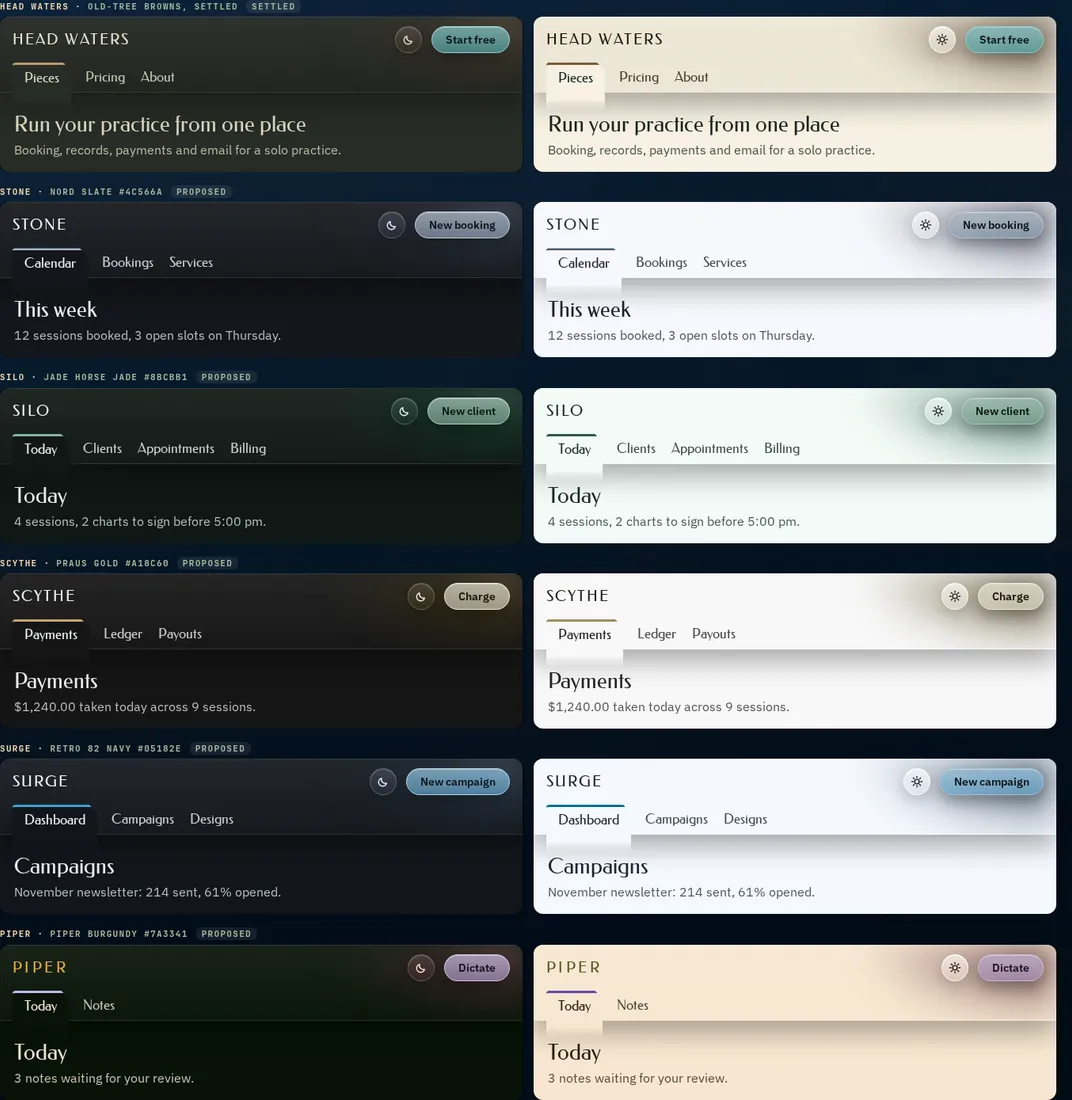
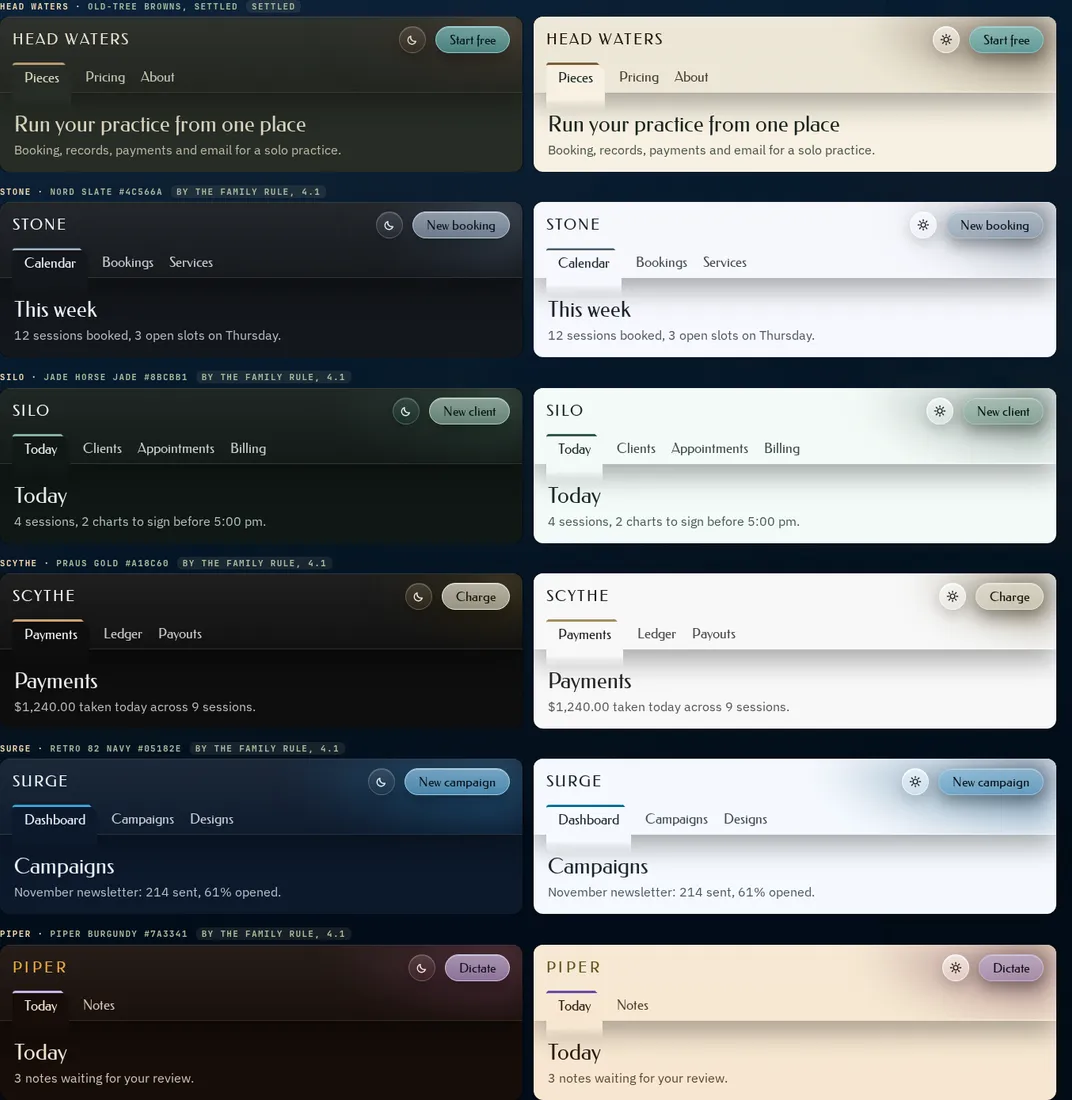
Take a second provider's review of the header on the five derived products into the example, and say what that review found that the checks could not
The design-language worked example now carries version 4.1: the glass header's corner tones for Stone, Silo, Scythe, Surge and Piper as a second provider's review left them. That means a slate glow with a shorter reach for Stone, a grey-jade glow for Silo, an ink-black dark ground and a tighter gold for Scythe, navy-to-azure with a navy dark ground and a wider reach for Surge, and a deeper burgundy glow with dark-earth neutrals for Piper. scripts/tokens.py accepts such a review from the family file and emits a per-product glow reach. reference/review.md gains the paragraph on why that review earned its cost.

Those five products took their header colours from a rule: hue from a named theme colour, lightness and opacity copied from the settled front page's glow. Every value passed every check, and still two pairs of products could be mistaken for each other where colour was all that differed. Surge's corner read as Stone's, and Piper's green-black dark ground sat close to Silo's. Colour-blind distance is measured between accents, not between corners and grounds, and contrast says a palette is legible, not that it belongs to anybody, so no check could see it.
[…]

diff --git a/design-language/examples/head-waters/tokens.css b/design-language/examples/head-waters/tokens.css
@@ -334,7 +334,7 @@
   --hw-header-ink: #2b1a12;
   --hw-header-tint: #43272b;
   --hw-glow-core: #3d101a;
-  --hw-glow-mid: #5d2d35b0;
+  --hw-glow-mid: #653247a0;
   --hw-gel: #907eb5;
   --hw-on-gel: #131019;
   --hw-frost-ink: #2b1a12;
@@ -347,19 +347,19 @@
 }
 
 .dark[data-product="piper"], .dark [data-product="piper"], [data-product="piper"] .dark {
-  --hw-ground: #071307;
-  --hw-surface: #0f1c0f;
-  --hw-raised: #162516;
-  --hw-float: #1b2b1b;
-  --hw-inset: #040c04;
-  --hw-field: #050e05;
-  --hw-surface-top: #122012;
-  --hw-surface-bottom: #0f1c0f;
-  --hw-raised-bottom: #142214;
+  --hw-ground: #160d09;
+  --hw-surface: #1f1611;
+  --hw-raised: #281e19;
+  --hw-float: #2e241f;
+  --hw-inset: #0f0704;
+  --hw-field: #120905;
+  --hw-surface-top: #231915;
+  --hw-surface-bottom: #1f1611;
+  --hw-raised-bottom: #251c17;
   --hw-ink: #f7e9d6;
   --hw-ink-2: #d4c5b1;
   --hw-ink-3: #b7a895;
-  --hw-edge: #2b3a2b;
+  --hw-edge: #3e332e;
   --hw-edge-control: #7f7261;
   --hw-lit: rgba(255, 255, 255, 0.06);
   --hw-danger: #d9818f;
@@ -376,8 +376,8 @@
   --hw-warning-tint: #33270e;
   --hw-warning-edge: #6e5520;
   --hw-neutral: #a39684;
-  --hw-neutral-tint: #1d2a1d;
-  --hw-neutral-edge: #364436;
+  --hw-neutral-tint: #2e241f;
+  --hw-neutral-edge: #483d38;
   --hw-done: #6fbf8c;
   --hw-scrim: rgba(0, 0, 0, 0.6);
   --hw-frost-sheet: linear-gradient(#ffffff22, #ffffff08);
@@ -393,13 +393,13 @@
   --hw-signature: #c8b5f0;
   --hw-header-ink: #f7e9d6;
   --hw-header-tint: #33191d;
-  --hw-glow-core: #7c4951;
-  --hw-glow-mid: #4d1f28a0;
+  --hw-glow-core: #70354b;
+  --hw-glow-mid: #5a2c44b0;
   --hw-gel: #a896cf;
   --hw-on-gel: #131019;
   --hw-frost-ink: #f7e9d6;
-  --hw-surface-fill: linear-gradient(180deg, #122012 0%, #0f1c0f 100%);
-  --hw-raised-fill: linear-gradient(180deg, #162516 0%, #142214 100%);
+  --hw-surface-fill: linear-gradient(180deg, #231915 0%, #1f1611 100%);
+  --hw-raised-fill: linear-gradient(180deg, #281e19 0%, #251c17 100%);
   --hw-accent-top: #cfbef2;
   --hw-accent-hover-top: #dccffa;
   --hw-danger-top: #de909c;
@@ -464,10 +464,12 @@
   --hw-accent-top: #3a3a3a;
   --hw-accent-hover-top: #4b4b4b;
   --hw-danger-top: #bd3d34;
+  --hw-glow-reach-x: 28%;
+  --hw-glow-reach-y: 92%;
 }
 
 .dark[data-product="scythe"], .dark [data-product="scythe"], [data-product="scythe"] .dark {
-  --hw-ground: #151515;
+  --hw-ground: #0e0e0e;
   --hw-surface: #1f1f1f;
   --hw-raised: #282828;
   --hw-float: #313131;
@@ -572,8 +574,8 @@
   --hw-signature: #495a6b;
   --hw-header-ink: #1f242f;
   --hw-header-tint: #2b303b;
-  --hw-glow-core: #192233;
-  --hw-glow-mid: #353e51b0;
+  --hw-glow-core: #283444;
+  --hw-glow-mid: #50607690;
   --hw-gel: #788c9e;
   --hw-on-gel: #0a121a;
   --hw-frost-ink: #1f242f;
@@ -582,6 +584,7 @@
   --hw-accent-top: #5f6e7d;
   --hw-accent-hover-top: #51606e;
   --hw-danger-top: #bd3d34;
+  --hw-glow-reach-x: 32%;
 }
 
 .dark[data-product="stone"], .dark [data-product="stone"], [data-product="stone"] .dark {
@@ -630,8 +633,8 @@
   --hw-signature: #a0b4c7;
   --hw-header-ink: #eef1f6;
   --hw-header-tint: #1d222d;
-  --hw-glow-core: #505b6f;
-  --hw-glow-mid: #273042a0;
+  --hw-glow-core: #59677e;
+  --hw-glow-mid: #36465da8;
   --hw-gel: #8a9eb1;
   --hw-on-gel: #0a121a;
   --hw-frost-ink: #eef1f6;
@@ -690,8 +693,8 @@
   --hw-signature: #305647;
   --hw-header-ink: #182823;
   --hw-header-tint: #19372c;
-  --hw-glow-core: #002a1d;
-  --hw-glow-mid: #094936b0;
+  --hw-glow-core: #253c33;
+  --hw-glow-mid: #4b6259a2;
   --hw-gel: #6c9383;
   --hw-on-gel: #091410;
   --hw-frost-ink: #182823;
@@ -748,8 +751,8 @@
   --hw-signature: #87af9e;
   --hw-header-ink: #ecf2f0;
   --hw-header-tint: #09281e;
-  --hw-glow-core: #2d6752;
-  --hw-glow-mid: #003a29a0;
+  --hw-glow-core: #3f5c50;
+  --hw-glow-mid: #2a473a98;
   --hw-gel: #7ea595;
   --hw-on-gel: #091410;
   --hw-frost-ink: #ecf2f0;
@@ -808,8 +811,8 @@
   --hw-signature: #006590;
   --hw-header-ink: #1c2530;
   --hw-header-tint: #25313f;
-  --hw-glow-core: #0f233a;
-  --hw-glow-mid: #2a3f58b0;
+  --hw-glow-core: #092548;
+  --hw-glow-mid: #205a80ae;
   --hw-gel: #4b92ba;
   --hw-on-gel: #091319;
   --hw-frost-ink: #1c2530;
@@ -818,10 +821,12 @@
   --hw-accent-top: #1f779d;
   --hw-accent-hover-top: #1f6987;
   --hw-danger-top: #bd3d34;
+  --hw-glow-reach-x: 46%;
+  --hw-glow-reach-y: 122%;
 }
 
 .dark[data-product="surge"], .dark [data-product="surge"], [data-product="surge"] .dark {
-  --hw-ground: #12161b;
+  --hw-ground: #0c192b;
   --hw-surface: #1a2027;
   --hw-raised: #222931;
   --hw-float: #2a323c;
@@ -866,8 +871,8 @@
   --hw-signature: #3aaae4;
   --hw-header-ink: #edf1f6;
   --hw-header-tint: #182331;
-  --hw-glow-core: #465c77;
-  --hw-glow-mid: #1d3149a0;
+  --hw-glow-core: #245c88;
+  --hw-glow-mid: #145480cb;
   --hw-gel: #5ea5cd;
   --hw-on-gel: #091319;
   --hw-frost-ink: #edf1f6;

diff --git a/design-language/scripts/tokens.py b/design-language/scripts/tokens.py
@@ -238,6 +238,10 @@ OVERRIDES = {}   # (product, mode, role) -> value; used by --selftest only
 SETTLED = {}        # product -> a palette its owner settled by eye: {'light': {...}, 'dark': {...},
                     #   'derived': {mode: {role: (lightness, chroma or None or 'ink')}}}; placed last,
                     #   only its accent and gel move, and only as far as a check needs
+REVIEW = {}         # (product, mode, role) -> value: a second provider's accepted changes, given whole;
+                    #   neutral roles move their aliases with them; the checks hold them like any other
+REVIEW_WHY = {}     # product -> one line: what the review changed and why
+GLOW_REACH = {}     # product -> {'reach-x': '32%', 'reach-y': '92%'} where not the base 38% by 112%
 GLOW_FROM = {}      # product -> (name, colour): the theme colour its header's corner tone takes
                     #   its hue and chroma (at most 0.07) from
 # The header's lightness structure when no product is settled: the corner core and mid (with the
@@ -334,6 +338,20 @@ def signature_for(src, c, mode):
             return h, (round(start, 3), round(L, 3))
         L += step
     return hexof(L, C, H), (round(start, 3), round(L, 3))
+
+def glow_reach(name):
+    base = SHARED['header']['glow']
+    return {'reach-x': base['reach-x'], 'reach-y': base['reach-y'], **GLOW_REACH.get(name, {})}
+
+def apply_review(name, mode, c, roles):
+    """Put the review's values for these roles into a palette, and move the aliases that point at them."""
+    for (p_, m, role), v in REVIEW.items():
+        if p_ == name and m == mode and role in roles and (name, mode, role) not in OVERRIDES:
+            old = c.get(role)
+            c[role] = v
+            for k, t in ALIASES.items():
+                if t == role and c.get(k) == old:
+                    c[k] = v
 
 def alpha_hex(h, a):
     return h + '%02x' % round(a * 255)
@@ -491,9 +509,13 @@ def derive_all():
     for name in ORDER:
         for mode in ('light', 'dark'):
             c = products[name][mode]
+            apply_review(name, mode, c, NEUTRAL_ROLES)
             c.update(header_roles(name, mode, c, products))
+            apply_review(name, mode, c, ('glow-core', 'glow-mid', 'gel'))
             if (name, mode, 'gel') in OVERRIDES:
                 c['gel'] = OVERRIDES[(name, mode, 'gel')]
+                continue
+            if (name, mode, 'gel') in REVIEW:
                 continue
             g0 = c['gel']
             L, C, H = oklch(g0)
@@ -942,7 +964,8 @@ def build_css():
                         and not (k == 'page' and c[k] == c['ground']):
                     v[k] = c[k]
             blocks.append(v)
-        out.append(css_block(f'[data-product="{name}"]', blocks[0]))
+        reach = {f'glow-{k}': v for k, v in glow_reach(name).items() if v != SHARED['header']['glow'][k]}
+        out.append(css_block(f'[data-product="{name}"]', {**blocks[0], **reach}))
         out.append(css_block(f'.dark[data-product="{name}"], .dark [data-product="{name}"], [data-product="{name}"] .dark', blocks[1]))
     out.append(SIG_CSS)
     out.append(HEADER_CSS)
@@ -1107,7 +1130,7 @@ def native_group():
                    'role': 'switch (accessibilityRole="switch", accessibilityState={ checked })', 'never': 'a checkbox (expo-checkbox or any other)'},
         'button_label': 'the display face for the words; a run of figures inside the label in the text face at the same size; a label that is only a number is data (type-data)',
         'header': {'height': s['header']['height'], 'control': s['header']['control'], 'hit': s['size']['target'],
-                   'glow': 'draw with react-native-svg: a RadialGradient centred on the top right corner, rx 38% of the width, ry 112% of the height; stops glow-core at 0 and 0.14, glow-mid at 0.46, transparent at 1',
+                   'glow': 'draw with react-native-svg: a RadialGradient centred on the top right corner, rx products.<name>.header_glow.reach-x of the width (base 38%), ry reach-y of the height (base 112%); stops glow-core at 0 and 0.14, glow-mid at 0.46, transparent at 1',
                    'glass': 'opaque on native: the ground, the glow, then white at 7% fading to 2%; expo-blur only for the frosted controls',
                    'edge': {'width': 1, 'color': '#ffffff', 'alpha': 0.125}, 'shadow': {'y': 14, 'blur': 34, 'alpha': 0.33}},
         'motion': {'dur1': s['motion']['dur-1'], 'dur2': s['motion']['dur-2'], 'dur3': s['motion']['dur-3'],
@@ -1202,8 +1225,10 @@ def build_json():
                        'slot': src.get('slot'), 'hue': rec.get('hue'), 'intent': src['intent'],
                        'neutral_hue': rec.get('neutral_hue'), 'neutral_scale': rec.get('neutral_scale'),
                        'why': src['why'], 'inferred': src['inferred'], 'moves': rec['moves'], 'settled': name in SETTLED,
+                       **({'review': REVIEW_WHY[name]} if name in REVIEW_WHY else {}),
                        **({'also_from': src['also']} if src.get('also') else {}),
                        **({'pending': src['pending']} if src.get('pending') else {})},
+            'header_glow': {**glow_reach(name), 'origin': SHARED['header']['glow']['origin']},
             'light': color_group(products[name]['light']),
             'dark': color_group(products[name]['dark']),
         }

diff --git a/design-language/examples/head-waters/family.py b/design-language/examples/head-waters/family.py
@@ -70,16 +70,19 @@ _PIPER_LIGHT = {'accent': '#5f4bae', 'accent-hover': '#4f3d99', 'accent-ink': '#
                'neutral': '#7d6656', 'neutral-tint': '#f0e6d8', 'neutral-edge': '#d8c4b3', 'word': '#5c571e'}
 # Piper dark, as OKLCH recipes: green field at hue 145, parchment ink at 75, lavender at 299, burgundy at 10
 G, P_, LV, BG_ = 145, 75, 299, 10
+# The dark neutrals are dark earth: the brand brown's hue (#2B170D, 46.9 deg) at chroma 0.018 on the
+# lightness steps of the green-black field they replaced (the second provider's review, below).
+EARTH, EARTH_C = 46.88, 0.018
 _PIPER_DARK_LCH = {
-    'ground': (0.17, 0.030, G), 'surface': (0.21, 0.032, G), 'surface-top': (0.225, 0.033, G), 'surface-bottom': (0.21, 0.032, G),
-    'raised': (0.245, 0.034, G), 'raised-bottom': (0.235, 0.034, G), 'float': (0.27, 0.036, G), 'inset': (0.14, 0.025, G),
-    'field': (0.15, 0.026, G), 'ink': (0.94, 0.030, P_), 'ink-2': (0.83, 0.032, P_), 'ink-3': (0.74, 0.032, P_),
-    'edge': (0.33, 0.032, G), 'edge-control': (0.56, 0.030, P_),
+    'ground': (0.17, EARTH_C, EARTH), 'surface': (0.21, EARTH_C, EARTH), 'surface-top': (0.225, EARTH_C, EARTH), 'surface-bottom': (0.21, EARTH_C, EARTH),
+    'raised': (0.245, EARTH_C, EARTH), 'raised-bottom': (0.235, EARTH_C, EARTH), 'float': (0.27, EARTH_C, EARTH), 'inset': (0.14, EARTH_C, EARTH),
+    'field': (0.15, EARTH_C, EARTH), 'ink': (0.94, 0.030, P_), 'ink-2': (0.83, 0.032, P_), 'ink-3': (0.74, 0.032, P_),
+    'edge': (0.33, EARTH_C, EARTH), 'edge-control': (0.56, 0.030, P_),
     'accent': (0.81, 0.084, LV), 'accent-hover': (0.86, 0.070, LV), 'accent-ink': (0.84, 0.076, LV),
     'accent-tint': (0.31, 0.060, LV), 'on-accent': (0.20, 0.050, LV),
     'edge-accent': (0.70, 0.105, BG_), 'danger': (0.70, 0.110, BG_), 'danger-ink': (0.75, 0.100, BG_),
     'danger-tint': (0.27, 0.055, BG_), 'danger-edge': (0.43, 0.080, BG_), 'on-danger': (0.18, 0.040, BG_),
-    'neutral': (0.68, 0.030, P_), 'neutral-tint': (0.27, 0.030, G), 'neutral-edge': (0.37, 0.030, G),
+    'neutral': (0.68, 0.030, P_), 'neutral-tint': (0.27, EARTH_C, EARTH), 'neutral-edge': (0.37, EARTH_C, EARTH),
     'word': (0.78, 0.140, 78),
 }
 
@@ -201,3 +204,24 @@ SETTLED = {'home': {
 # the header on the front page, then made it every product's skin, each in its own theme's deep tone.
 GLOW_FROM = {'stone': ('Nord slate', '#4c566a'), 'silo': ('Jade Horse jade', '#8bcbb1'),
              'scythe': ('Praus gold', '#A18C60'), 'surge': ('Retro 82 navy', '#05182e'), 'piper': ('Piper burgundy', '#7a3341')}
+
+# ── the second provider's review of the header on the five other products (reference/review.md) ──
+REVIEW = {
+    ('stone', 'light', 'glow-core'): '#283444', ('stone', 'dark', 'glow-core'): '#59677e',
+    ('stone', 'light', 'glow-mid'): '#50607690', ('stone', 'dark', 'glow-mid'): '#36465da8',
+    ('silo', 'light', 'glow-core'): '#253c33', ('silo', 'dark', 'glow-core'): '#3f5c50',
+    ('silo', 'light', 'glow-mid'): '#4b6259a2', ('silo', 'dark', 'glow-mid'): '#2a473a98',
+    ('scythe', 'dark', 'ground'): '#0e0e0e',
+    ('surge', 'light', 'glow-core'): '#092548', ('surge', 'dark', 'glow-core'): '#245c88',
+    ('surge', 'light', 'glow-mid'): '#205a80ae', ('surge', 'dark', 'glow-mid'): '#145480cb',
+    ('surge', 'dark', 'ground'): '#0c192b', ('surge', 'dark', 'gel'): '#5ea5cd',
+    ('piper', 'dark', 'glow-core'): '#70354b', ('piper', 'light', 'glow-mid'): '#653247a0', ('piper', 'dark', 'glow-mid'): '#5a2c44b0',
+}
+REVIEW_WHY = {
+    'stone': 'a slate glow with a shorter reach (32%)', 'silo': 'a grey-jade glow',
+    'scythe': 'an ink-black dark ground and a tighter gold glow (28% by 92%)',
+    'surge': 'navy to azure in the glow, a navy dark ground and a wider reach (46% by 122%)',
+    'piper': 'a deeper burgundy glow, and dark neutrals of dark earth from the brand brown in place of green-black',
+}
+GLOW_REACH = {'stone': {'reach-x': '32%'}, 'scythe': {'reach-x': '28%', 'reach-y': '92%'},
+              'surge': {'reach-x': '46%', 'reach-y': '122%'}}

diff --git a/design-language/reference/review.md b/design-language/reference/review.md
@@ -13,6 +13,8 @@ of a different provider, one round, and treat its findings the way a build treat
   that take more steps than they should.
 - Ask what a builder applying the tokens to a native app would be missing.
 - Tell it which choices are feel and which are measurement, so it pushes on the right ones.
+- Ask whether any two products could be mistaken for each other where colour is all that
+  differs: put the same words in every product's header and look.
 
 ## Answer every item
 
@@ -24,3 +26,18 @@ In the example the review found a 4.12:1 label at a button's light end, outlines
 wells, two products 2.91 apart for deuteranopes with marks of the same silhouette, a spacing rule
 that two builders could read two ways, and no numbers a native theme could be generated from.
 All became checks or tokens. One item was not taken: a time-zone label the owner had decided.
+
+A later round, in the same example, looked at how the settled skin carried to the five products
+whose header colours came from a rule: hue from a named theme colour, lightness and opacity copied
+from the settled product's glow. Every value passed every check. The rule did what it was built
+to do, giving each glow the same weight, and that is where the palettes were dry. Surge's navy
+corner read as Stone's slate. Piper's green-black dark ground sat close to Silo's. Stone's slate
+was faint at night and heavy by day, Silo's jade was louder than patient records want, and
+Scythe's gold spread wider than the button it belongs to. The checks could not see any of this:
+colour-blind distance is measured between accents, not between corners and grounds, and contrast
+says a palette is legible, not that it belongs to anybody. The reviewer proposed ten value changes
+(glow colours, two dark grounds, three reaches, and dark-earth neutrals for Piper from its brand
+brown), ran each in a scratch copy of the generator against every check, and all ten were taken
+unchanged. Piper's turned out to be a rule, the brand brown at a fixed chroma on the old lightness
+steps, and went in as one. The round cost one review and no markup. It earned that cost by
+catching two identity collisions that the derivation had produced by design.

diff --git a/design-language/examples/head-waters/11-changes-for-builders-v4.md b/design-language/examples/head-waters/11-changes-for-builders-v4.md
@@ -1,3 +1,19 @@
+## 4.1, values only: copy tokens.css again (Piper: regenerate theme.ts)
+
+No markup changes. A second provider's review of the header on the five other products, all ten
+changes taken; `--check` still passes 1,546, `--selftest` 23. Head Waters, the faces and the toggles are unchanged.
+
+| Product | Roles that changed |
+|---|---|
+| Stone | `glow-core`, `glow-mid` (light and dark): slate; glow reach `--hw-glow-reach-x` 32% |
+| Silo | `glow-core`, `glow-mid` (light and dark): grey-jade |
+| Scythe | dark `ground` `#0e0e0e` (ink-black) and `page`; glow reach 28% × 92% |
+| Surge | `glow-core`, `glow-mid` (light and dark): navy to azure; dark `ground` `#0c192b` and `page`; glow reach 46% × 122%; dark `gel` stays `#5ea5cd` |
+| Piper | dark neutrals become dark earth from the brand brown: `ground`, `surface`, `surface-top`, `surface-bottom`, `raised`, `raised-bottom`, `float`, `inset`, `field`, `edge`, `neutral-tint`, `neutral-edge`, with `page`, `assist-surface`, `avatar-bg`, `done-tint`, `line`, `toggle-off`; `glow-core`, `glow-mid` (dark), `glow-mid` (light): deeper burgundy |
+
+The reach is emitted per product in `tokens.css` (`--hw-glow-reach-x`, `-y` in each `[data-product]`
+block) and in `tokens.json` under `products.<name>.header_glow`; Piper's native glow reads it there.
+
 # Tokens version 4: what to change, for the builders
 
 You are on version 2; nobody applied version 3, so this one page takes you to version 4. Copy

diff --git a/design-language/reference/glass-header.md b/design-language/reference/glass-header.md
@@ -38,7 +38,11 @@ dark accent's hue and chroma at the settled gel's lightness; a product whose acc
 its dark accent as it stands, because a gold fill would sit on the warning colour. In the example,
 the five tones are Nord slate, Jade Horse jade, Praus gold, Retro 82 navy and Piper's burgundy.
 The owner then made the settled skin every product's, each in its own theme's deep tone, so in
-the example the rule is the decision; the tones themselves remain a judgement for the eye.
+the example the rule is the decision; the tones themselves remain a judgement for the eye, and a
+second provider's review then changed five of them ([review.md](review.md)). The reach can differ
+per product too (the family file's `GLOW_REACH`; in the example Stone 32%, Scythe 28% by 92%,
+Surge 46% by 122%): `tokens.css` sets `--hw-glow-reach-x` and `-y` in that product's block and
+`tokens.json` carries them under `products.<name>.header_glow`.
 
 ## Keep the folio tab joined
 
